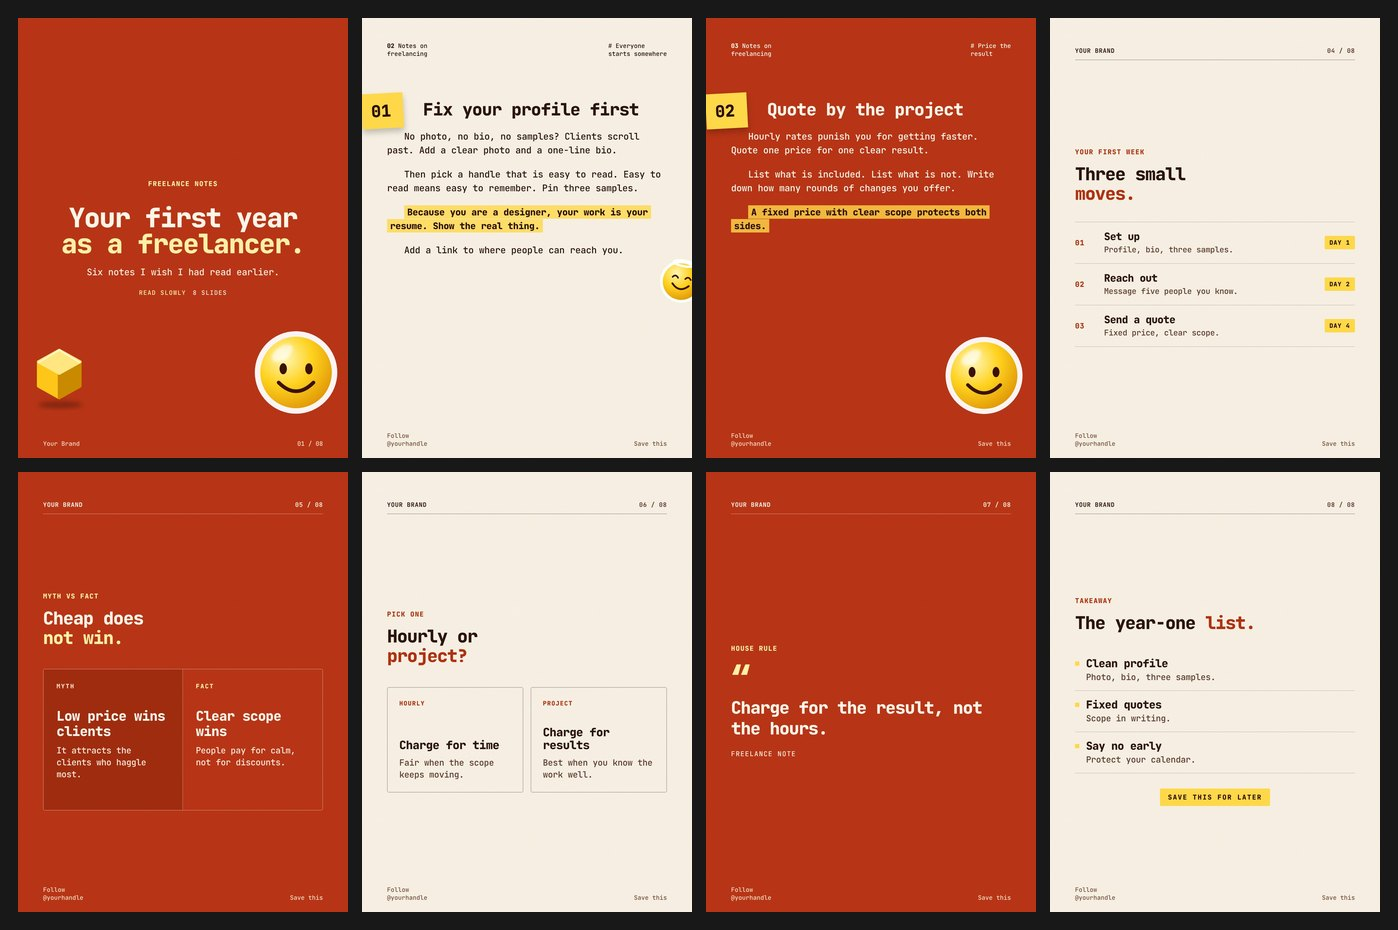
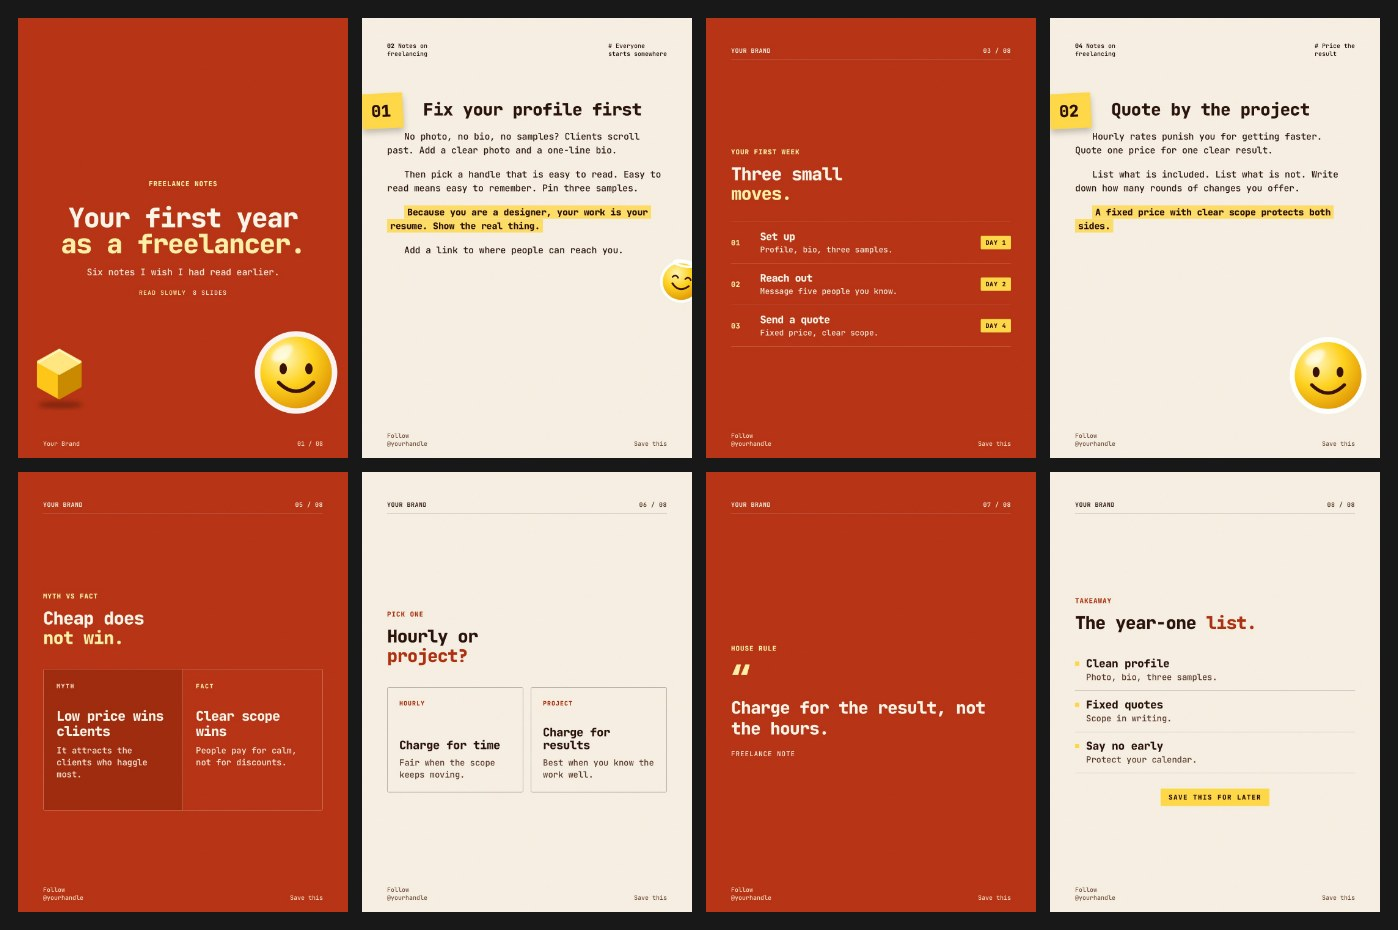
Template 10: separate the two note slides; renderer: wait on load instead of a fixed delay, add image and edge gates; add build_preview.py

diff --git a/templates/10-sticky-mono/sample.html b/templates/10-sticky-mono/sample.html
@@ -41,24 +41,9 @@
   <div class="footer"><span>Follow<br>@yourhandle</span><span>Save this</span></div>
 </section>
 
-<section class="slide p-note mode-dark" data-pattern="note">
+<section class="slide p-process mode-dark" data-pattern="process-steps">
   <div class="inner">
-    <div class="note-meta"><span><b>03</b> Notes on<br>freelancing</span><span># Price the<br>result</span></div>
-    <div class="content">
-      <h2><b>Quote</b> by the project</h2>
-      <p>Hourly rates punish you for getting faster. Quote one price for one clear result.</p>
-      <p>List what is included. List what is not. Write down how many rounds of changes you offer.</p>
-      <p><mark>A fixed price with clear scope protects both sides.</mark></p>
-    </div>
-  </div>
-  <div class="note-tab">02</div>
-  <div class="object s2" role="img" aria-label="sticker"></div>
-  <div class="footer"><span>Follow<br>@yourhandle</span><span>Save this</span></div>
-</section>
-
-<section class="slide p-process" data-pattern="process-steps">
-  <div class="inner">
-    <div class="topbar"><span class="b">Your Brand</span><span>04 / 08</span></div>
+    <div class="topbar"><span class="b">Your Brand</span><span>03 / 08</span></div>
     <div class="content">
       <div class="kicker">Your first week</div>
       <h2>Three small<br><span class="accent">moves.</span></h2>
@@ -69,6 +54,21 @@
       </div>
     </div>
   </div>
+  <div class="footer"><span>Follow<br>@yourhandle</span><span>Save this</span></div>
+</section>
+
+<section class="slide p-note" data-pattern="note">
+  <div class="inner">
+    <div class="note-meta"><span><b>04</b> Notes on<br>freelancing</span><span># Price the<br>result</span></div>
+    <div class="content">
+      <h2><b>Quote</b> by the project</h2>
+      <p>Hourly rates punish you for getting faster. Quote one price for one clear result.</p>
+      <p>List what is included. List what is not. Write down how many rounds of changes you offer.</p>
+      <p><mark>A fixed price with clear scope protects both sides.</mark></p>
+    </div>
+  </div>
+  <div class="note-tab">02</div>
+  <div class="object s2" role="img" aria-label="sticker"></div>
   <div class="footer"><span>Follow<br>@yourhandle</span><span>Save this</span></div>
 </section>
 

diff --git a/scripts/render_carousel.py b/scripts/render_carousel.py
@@ -8,6 +8,9 @@ Quality gates (exit 1 on failure):
   3. every slide bounding box must equal --width x --height
   4. every font in --check-fonts must be loaded (reject silent fallback)
   5. no visible text may be smaller than --min-font px (default 20, readable on a phone)
+  6. every <img> on a slide must load (no broken or missing files)
+  7. no text may be cut off by the slide edge (except inside .peek or [data-bleed],
+     which bleed off the edge on purpose)
 
 Example:
   python3 scripts/render_carousel.py --html topic.html --out out/ \
@@ -49,13 +52,27 @@ async def main() -> int:
         page = await browser.new_page(
             viewport={"width": args.width, "height": args.height}
         )
-        # file:// so relative local image paths always resolve
-        await page.goto(html.as_uri())
-        await page.wait_for_timeout(2500)  # let local fonts/images load
-        try:
-            await page.evaluate("document.fonts.ready.then(()=>1)")
-        except Exception:
-            pass
+        # file:// so relative local image paths always resolve. "load" waits for
+        # stylesheets, images and CSS backgrounds; then wait for fonts and decoding.
+        await page.goto(html.as_uri(), wait_until="load")
+        await page.evaluate(
+            """async()=>{
+                await document.fonts.ready;
+                await Promise.all([...document.images].map(i=>i.decode().catch(()=>{})));
+            }""")
+
+        # Image gate: a wrong path or unreadable file renders as an empty frame.
+        broken = await page.evaluate(
+            """()=>[...document.querySelectorAll('.slide img')]
+                .filter(i=>!i.complete||i.naturalWidth===0)
+                .map(i=>{const s=i.closest('.slide');
+                  return `slide ${[...document.querySelectorAll('.slide')].indexOf(s)+1} ${i.getAttribute('src')}`;})""")
+        if broken:
+            print("GATE FAILED (image): not loaded:", flush=True)
+            for line in broken[:12]:
+                print("  " + line, flush=True)
+            await browser.close()
+            return 1
 
         # Font gate: a webfont (e.g. Google Fonts) that fails to load drops
         # headlines to a fallback. Reject before rendering.
@@ -121,7 +138,7 @@ async def main() -> int:
             await browser.close()
             return 1
 
-        bad_overflow, bad_size = [], []
+        bad_overflow, bad_size, bad_edge = [], [], []
         for i in range(n):
             await page.evaluate(
                 f"""document.querySelectorAll('.slide').forEach((c,idx)=>{{
@@ -131,7 +148,7 @@ async def main() -> int:
 
             # Size gate via bounding box (no PIL dependency)
             box = await el.bounding_box()
-            if not box or int(box["width"]) != args.width or int(box["height"]) != args.height:
+            if not box or round(box["width"]) != args.width or round(box["height"]) != args.height:
                 bad_size.append(i + 1)
 
             await el.screenshot(
@@ -153,6 +170,31 @@ async def main() -> int:
             )
             if ovf["scrollH"] > ovf["clientH"] + 2 or ovf["scrollW"] > ovf["clientW"] + 2:
                 bad_overflow.append(i + 1)
+
+            # Edge gate: text past the slide edge is cut off in the JPG.
+            cut = await page.evaluate(
+                f"""(()=>{{
+                    const s = document.querySelectorAll('.slide')[{i}];
+                    const b = s.getBoundingClientRect(), out = [];
+                    const w = document.createTreeWalker(s, NodeFilter.SHOW_TEXT);
+                    while (w.nextNode()) {{
+                      const n = w.currentNode, el = n.parentElement;
+                      if (!n.textContent.trim() || el.closest('.peek,[data-bleed]')) continue;
+                      const cs = getComputedStyle(el);
+                      if (cs.display==='none' || cs.visibility==='hidden') continue;
+                      const r = document.createRange(); r.selectNodeContents(n);
+                      for (const q of r.getClientRects()) {{
+                        if (q.width && (q.left < b.left-1 || q.top < b.top-1 ||
+                            q.right > b.right+1 || q.bottom > b.bottom+1)) {{
+                          out.push(n.textContent.trim().slice(0,24)); break;
+                        }}
+                      }}
+                    }}
+                    return out;
+                }})()"""
+            )
+            if cut:
+                bad_edge.append(f"{i + 1} {cut[:3]}")
             print(f"slide {i+1:02d}: box={box['width']:.0f}x{box['height']:.0f} overflow={ovf}", flush=True)
 
         await browser.close()
@@ -163,6 +205,9 @@ async def main() -> int:
         failed = True
     if bad_overflow:
         print(f"GATE FAILED (overflow): slides {bad_overflow} (content clipped or colliding)", flush=True)
+        failed = True
+    if bad_edge:
+        print(f"GATE FAILED (edge): text cut off by the slide edge: {bad_edge}", flush=True)
         failed = True
     if failed:
         return 1

diff --git a/scripts/build_preview.py b/scripts/build_preview.py
@@ -1,0 +1,69 @@
+#!/usr/bin/env python3
+"""
+build_preview.py: compose rendered slides into one README preview sheet.
+
+Lays slide_01.jpg ... slide_NN.jpg out in a grid (4 columns by default) on a
+dark background, the same layout as assets/templates/*.jpg.
+
+Example:
+  python3 scripts/render_carousel.py --html templates/10-sticky-mono/sample.html \\
+      --out out/10-sticky-mono --slides 8 --check-fonts "JetBrains Mono"
+  python3 scripts/build_preview.py --slides out/10-sticky-mono \\
+      --out assets/templates/10-sticky-mono.jpg
+"""
+import argparse
+import asyncio
+import math
+import sys
+from pathlib import Path
+
+from playwright.async_api import async_playwright
+
+
+async def main() -> int:
+    ap = argparse.ArgumentParser()
+    ap.add_argument("--slides", required=True, help="folder with slide_*.jpg")
+    ap.add_argument("--out", required=True, help="preview JPG path")
+    ap.add_argument("--cols", type=int, default=4)
+    ap.add_argument("--tile", type=int, default=330, help="tile width in px")
+    ap.add_argument("--ratio", type=float, default=1440 / 1080, help="slide height / width")
+    ap.add_argument("--gap", type=int, default=14)
+    ap.add_argument("--pad", type=int, default=18)
+    ap.add_argument("--bg", default="#181818")
+    ap.add_argument("--quality", type=int, default=88)
+    args = ap.parse_args()
+
+    files = sorted(Path(args.slides).glob("slide_*.jpg"))
+    if not files:
+        print(f"no slide_*.jpg in {args.slides}", flush=True)
+        return 1
+    rows = math.ceil(len(files) / args.cols)
+    th = round(args.tile * args.ratio)
+    w = args.pad * 2 + args.cols * args.tile + (args.cols - 1) * args.gap
+    h = args.pad * 2 + rows * th + (rows - 1) * args.gap
+    imgs = "".join(f'<img src="{f.resolve().as_uri()}">' for f in files)
+    html = (f"<html><body style='margin:0;background:{args.bg}'>"
+            f"<div style='display:grid;grid-template-columns:repeat({args.cols},{args.tile}px);"
+            f"grid-auto-rows:{th}px;gap:{args.gap}px;padding:{args.pad}px'>{imgs}</div>"
+            f"<style>img{{width:100%;height:100%;display:block}}</style></body></html>")
+
+    out = Path(args.out)
+    out.parent.mkdir(parents=True, exist_ok=True)
+    tmp = out.with_suffix(".preview.html")
+    tmp.write_text(html)
+    try:
+        async with async_playwright() as p:
+            browser = await p.chromium.launch()
+            page = await browser.new_page(viewport={"width": w, "height": h})
+            await page.goto(tmp.resolve().as_uri(), wait_until="load")
+            await page.screenshot(path=str(out), type="jpeg", quality=args.quality,
+                                  clip={"x": 0, "y": 0, "width": w, "height": h})
+            await browser.close()
+    finally:
+        tmp.unlink(missing_ok=True)
+    print(f"OK: {len(files)} slides -> {out} ({w}x{h})", flush=True)
+    return 0
+
+
+if __name__ == "__main__":
+    sys.exit(asyncio.run(main()))

diff --git a/SKILL.md b/SKILL.md
@@ -100,7 +100,7 @@ python3 scripts/render_carousel.py --html <file.html> --out <dir-output> \
     --check-fonts "Plus Jakarta Sans"
 ```
 (Adjust width, height, slides, and fonts to the brief and the system tokens.)
-The script exits 1 when the `.slide` count differs from the request, when content overflows its zone, when a slide bounding box differs from the requested size, when text is smaller than 20px, or when a checked font failed to load. Fix the HTML and re-render until it passes. Never waive the gate manually.
+The script exits 1 when the `.slide` count differs from the request, when content overflows its zone, when a slide bounding box differs from the requested size, when text is smaller than 20px, when a checked font failed to load, when an `<img>` failed to load, or when text is cut off by the slide edge (elements inside `.peek` or `[data-bleed]` may bleed on purpose). Fix the HTML and re-render until it passes. Never waive the gate manually.
 
 ### 7. Final visual check and record
 Open slide 1, one middle slide, and the last slide. Confirm the display font rendered, no text is clipped, no elements overlap, images are undistorted with subjects intact, and brand, handle, and CTA stay consistent. Then update the system's `last-used.json` with this carousel's cover pattern, full pattern sequence, and the mode of each slide (for example `{"cover": "cover-big-type", "sequence": ["cover-big-type", "two-cards", "takeaway"], "modes": ["light", "dark", "light"]}`).
@@ -137,7 +137,7 @@ Apply this reasoning at every step. It is what keeps the output from reading as 
 - Contrast: body, muted, footer, and accent text hold at least 4.5:1 against their background and panel (WCAG AA). Templates already comply, so a custom system must check its own tokens in both modes.
 - Color: 60 percent base, 30 percent secondary, 10 percent accent.
 - Consistency: topbar, footer, kicker, cards, radius, and shadows never change style across slides. Patterns vary. Tokens do not.
-- Safe zones: 64px from each edge. Nothing important outside them.
+- Safe zones: content stays inside the `.inner` box (78px top and bottom, 82px left and right). Only the topbar and footer chrome sit closer, at 34px from the edge. No text may be cut by the slide edge.
 - Anti-collision: fixed zones with vertical flex flow. Elements that touch are a failed design.
 
 ## Output contract

diff --git a/README.md b/README.md
@@ -20,7 +20,7 @@ Pick a ready-made template or lock your own design system. Real images only. No 
 | **Or your own look** | Want a custom brand instead? A 7-question dialog (or a reference screenshot) locks your own design system. |
 | **Real images only** | Images come from user uploads or URLs and every one passes visual verification. Four photo layouts ship with the skill. Generative AI imagery is banned, no exceptions. |
 | **Built for phones** | Body copy is 28 to 32px, nothing is under 20px, and text keeps WCAG AA contrast (4.5:1) in both modes. |
-| **Quality gates** | The render fails on wrong slide count, overflowing content, wrong dimensions, text under 20px, or a missing font. Defects never ship silently. |
+| **Quality gates** | The render fails on wrong slide count, overflowing content, wrong dimensions, text under 20px, a missing font, a broken image, or text cut off by the slide edge. Defects never ship silently. |
 
 ## Pick a template
 
@@ -238,7 +238,8 @@ carouso/
 │   └── templates/            ← the fourteen template previews
 ├── scripts/
 │   ├── render_carousel.py    ← Playwright render with quality gates
-│   └── check_templates.py    ← consistency check for every template (runs in CI)
+│   ├── check_templates.py    ← consistency check for every template (runs in CI)
+│   └── build_preview.py      ← compose rendered slides into a README preview sheet
 └── examples/
     └── brief-example.md      ← a complete brief and how the skill handles it
 ```
@@ -249,6 +250,12 @@ Output goes to `carousels/<name>/` (git-ignored).
 
 - Python 3 plus `playwright` (`pip install playwright && playwright install chromium`)
 - Nothing else. Fonts are bundled in `fonts/`, so the font gate passes on a clean machine.
+
+## Changing a template
+
+1. Edit `templates/NN-slug/sample.html` and keep `template.json` in step (each `<section>` carries `data-pattern`, its `p-*` class, and `mode-dark` for dark slides).
+2. `python3 scripts/check_templates.py` must report OK. CI runs it and renders every template on each pull request.
+3. Refresh the preview: render the sample to `out/NN-slug/`, then `python3 scripts/build_preview.py --slides out/NN-slug --out assets/templates/NN-slug.jpg`.
 
 ## Rules the skill never breaks
 
